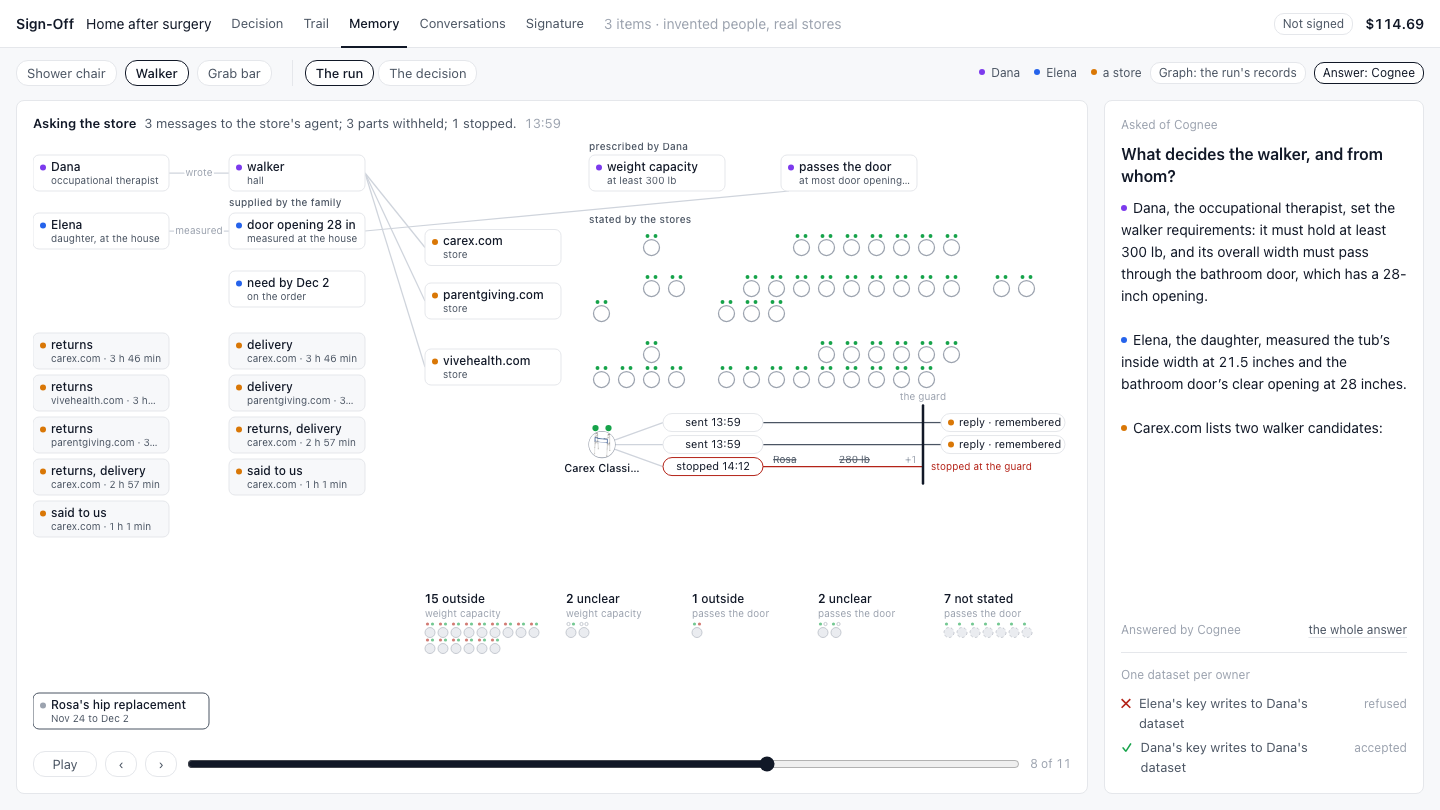
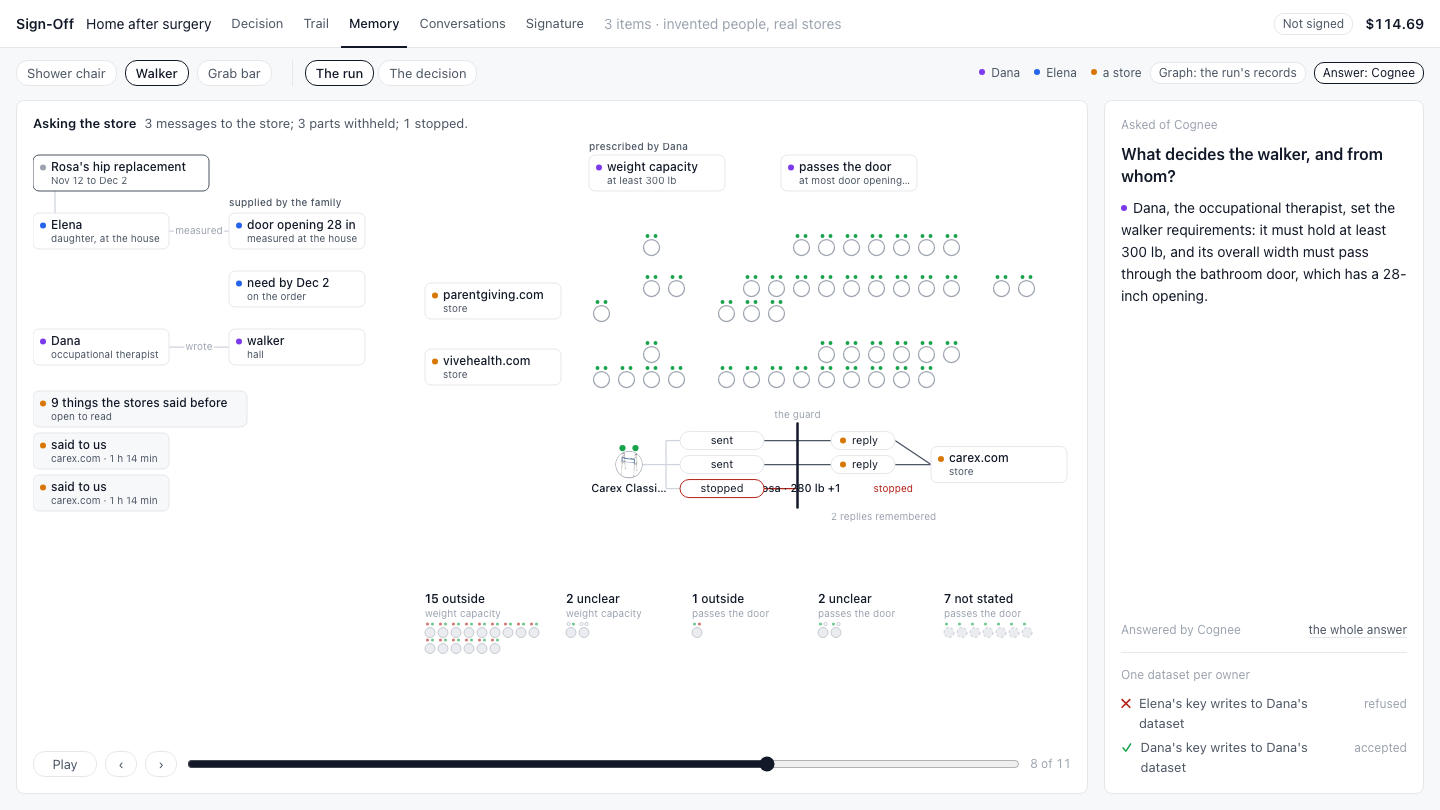
GRAPH: polish: the event as root, one node for what was recalled, survivors and gate at twice the size, the guard anchored between product and store, short captions

diff --git a/web/graph/explore.js b/web/graph/explore.js
@@ -10,7 +10,8 @@ const ownerClass = (o) => (o === "issuer" || o === "shopper" ? o : o === "system
 const short = (s, n) => (String(s || "").length > n ? String(s).slice(0, n - 1).trimEnd() + "…" : String(s || ""));
 const clock = (at) => (at ? String(at).slice(11, 16) : "");
 const FW = px(176);                                                // a fact quoted from a message is a wider card
-const boxW = (n) => (n.kind === "context_fact" || n.kind === "event" ? FW : CW);
+const GW = px(214);                                                // the one node that stands for everything recalled
+const boxW = (n) => (n.group ? GW : n.kind === "context_fact" || n.kind === "event" ? FW : CW);
 const REASONS = ["outside", "unclear", "not stated", "struck", "struck before"];
 
 let X = null;      // the mounted exploration: data, elements, current stage and positions
@@ -27,12 +28,14 @@ function plan(k) {
   const { data, W, H } = X, S = data.stages, at = (id) => S.findIndex((s) => s.id === id);
   const iEvent = at("event"), iOrder = at("order"), eventPhase = iEvent >= 0 && k <= iOrder;
   const iSearch = at("search"), iRead = at("reading"), iWeb = at("web"), iRank = at("ranking"), iSign = at("signature"), iAsk = at("asking");
+  const ranked = iRank >= 0 && k >= iRank, asking = iAsk >= 0 && k === iAsk;
   const nodes = new Map(data.nodes.map((n) => [n.id, n]));
   const added = new Map();                                        // node id -> the stage that adds it
   S.forEach((s, i) => s.node_ids_added.forEach((id) => added.set(id, i)));
   const asideAt = new Map();                                      // product id -> the stage that sets it aside
   S.forEach((s, i) => s.node_ids_set_aside.forEach((id) => asideAt.set(id, i)));
   const P = new Map(), lines = [], texts = [];
+  let leftBottom = 2 * (CH + px(22));
   const put = (id, x, y, more = {}) => P.set(id, { x, y, ...more, o: (added.get(id) ?? 0) <= k ? more.o ?? 1 : 0 });
   const GAP = px(60), XI = CW + GAP, XS = XI + CW + GAP, PX0 = XS + CW + px(28), YROW = H * 0.56, YB = H * 0.77;
 
@@ -71,20 +74,28 @@ function plan(k) {
     const idle = known.find((n) => !n.used);
     if (idle && k >= iOrder) texts.push({ x: XS + FW + px(10), y: fy.get(idle.id) + CH / 2 + px(3), cls: "gs", html: "held · not used for this order" });
   } else {
-    people.forEach((n, i) => put(n.id, 0, i * (CH + px(22))));
-    put(item.id, XI, 0);
-    facts.forEach((n, i) => put(n.id, XI, (i + 1) * (CH + px(22))));
-    values.forEach((n, i) => put(n.id, XI, (i + 1 + facts.length) * (CH + px(22))));
+    // the event is the root, top-left; what the family supplied grows under it; then the author's order
+    const ROW = CH + px(22), supplied = [...facts, ...values];
+    const issuer = people.find((n) => n.id === "person:issuer"), shopper = people.find((n) => n.id === "person:shopper");
+    const yS = nodes.has("event") ? ROW : 0, yD = yS + Math.max(1, supplied.length) * ROW;
+    if (nodes.has("event")) { put("event", 0, 0); if (shopper) lines.push({ raw: [px(22), CH, px(22), yS], cls: "" }); }
+    if (shopper) put(shopper.id, 0, yS);
+    supplied.forEach((n, i) => put(n.id, XI, yS + i * ROW));
+    if (issuer) put(issuer.id, 0, yD);
+    put(item.id, XI, yD);
+    leftBottom = yD + ROW;
+    if (data.sources?.supplied && supplied.length) texts.push({ x: XI, y: yS - px(7), cls: "src", html: esc(data.sources.supplied) });
     // the rules, above the products
     limits.forEach((n, i) => put(n.id, PX0 + i * (CW + px(56)), 0));
-    // the event stays as one node; its people, messages and facts fold back into it
-    if (nodes.has("event")) put("event", 0, H - CH - px(2));
-    [...around, ...notes, ...known].forEach((n) => put(n.id, 0, H - CH - px(2), { o: 0, w: boxW(n) }));
+    // the event's people, messages and facts fold back into it
+    [...around, ...notes, ...known].forEach((n) => put(n.id, 0, 0, { o: 0, w: boxW(n) }));
   }
-  // what it already knows: small cards under the order, each with its owner's mark and its age
-  const memTop = Math.max(2, 1 + facts.length + values.length) * (CH + px(22)) + px(4);
-  data.nodes.filter((n) => n.kind === "memory").forEach((n, i) =>
-    put(n.id, (i % 2) * XI, memTop + Math.floor(i / 2) * (CH + px(6))));
+  // what it already knows: one node for all of it, and on their own only the few that bear on this item's pick
+  const memories = data.nodes.filter((n) => n.kind === "memory");
+  const own = memories.filter((n) => n.own), all = memories.find((n) => n.group);
+  if (all) put(all.id, 0, leftBottom + px(4), { w: GW });
+  own.forEach((n, i) => put(n.id, 0, leftBottom + px(4) + (i + (all ? 1 : 0)) * (CH + px(6))));
+  memories.filter((n) => !n.own && !n.group).forEach((n) => put(n.id, 0, leftBottom + px(4), { o: 0 }));
 
   // the stores and the products found at each
   const stores = data.nodes.filter((n) => n.kind === "store");
@@ -110,10 +121,17 @@ function plan(k) {
     groups.get(key).ids.push(p.id);
   }
   const ordered = [...groups.values()].sort((a, b) => a.stage - b.stage || REASONS.indexOf(a.reason) - REASONS.indexOf(b.reason));
-  const gcols = 9, gsp = px(13);
-  let gx = XS;
+  const gcols = 9, gsp = px(13), RQ = px(2.5);
+  let gx = ranked ? 0 : XS;
   const asidePos = new Map();
   for (const g of ordered) {
+    if (ranked) {                                                   // one quiet row: a count, a reason, its dots
+      const label = `${g.ids.length} ${g.reason}`, lw = label.length * px(5.4) + px(8);
+      texts.push({ x: gx, y: H - px(4), cls: "gs", html: esc(label) });
+      g.ids.forEach((id, i) => asidePos.set(id, { x: gx + lw + i * px(7), y: H - px(7), quiet: true }));
+      gx += lw + g.ids.length * px(7) + px(18);
+      continue;
+    }
     const w = Math.max(px(112), Math.min(gcols, g.ids.length) * gsp + px(10));
     texts.push({ x: gx, y: YB + px(4), cls: "gh", html: `<tspan class="gc">${g.ids.length}</tspan> ${esc(g.reason)}` });
     texts.push({ x: gx, y: YB + px(18), cls: "gs", html: esc(S[g.stage].rule || S[g.stage].title) });
@@ -126,69 +144,76 @@ function plan(k) {
   const reviews = data.nodes.filter((n) => n.kind === "review");
   const searched = reviews.map((r) => r.product);
   const order = iRank >= 0 ? S[iRank].order : [];
-  const ranked = iRank >= 0 && k >= iRank;
-  const xr = W - CW - px(40);                                       // the head of the line, next to the gate
   const webbed = iWeb >= 0 && k >= iWeb;
-  const TOP = 5, BIGSTEP = px(84);
+  const TOP = 5, BIGSTEP = px(84), RBIG = px(26), GS = 1.3, CY = H * 0.46;
+  const gateX = W - CW * GS - px(2), leftEdge = XI + CW + px(64);
   const big = new Set(ranked ? order.slice(0, TOP) : webbed ? searched : []);
   const linePos = new Map();
   if (ranked) {
-    const tail = order.slice(TOP), trows = 3, tsp = px(10), tcols = Math.ceil(tail.length / trows);
-    const tx = xr - RB - (TOP - 1) * BIGSTEP - px(52) - (tcols - 1) * tsp;
-    order.slice(0, TOP).forEach((id, i) => linePos.set(id, { x: xr - RB - i * BIGSTEP, y: YROW }));
-    // behind them, in order: nearest column is next in rank
-    tail.forEach((id, i) => linePos.set(id, { x: tx + (tcols - 1 - Math.floor(i / trows)) * tsp, y: YROW - tsp + (i % trows) * tsp }));
-    if (tail.length) texts.push({ x: tx + ((tcols - 1) * tsp) / 2, y: YROW + px(30), cls: "gs mid", html: `${tail.length} more that pass` });
+    const head = gateX - px(44) - RBIG, n = Math.min(TOP, order.length);
+    const step = n > 1 ? Math.min(px(170), (head - leftEdge - RBIG) / (n - 1)) : 0;
+    order.slice(0, TOP).forEach((id, i) => linePos.set(id, { x: head - i * step, y: CY }));
+    // the rest that pass, in order, in a quiet block under them
+    const tail = order.slice(TOP), trows = 2, tsp = px(10), ty = CY + RBIG + px(96);
+    tail.forEach((id, i) => linePos.set(id, { x: leftEdge + Math.floor(i / trows) * tsp, y: ty + (i % trows) * tsp }));
+    if (tail.length) texts.push({ x: leftEdge + Math.ceil(tail.length / trows) * tsp + px(8), y: ty + px(8), cls: "gs", html: `${tail.length} more that pass` });
   } else if (webbed) {
     const step = Math.min(px(120), Math.max(BIGSTEP, (W - PX0) / Math.max(1, searched.length)));
     searched.forEach((id, i) => linePos.set(id, { x: PX0 + step / 2 + i * step, y: YROW }));
   }
 
-  const asking = iAsk >= 0 && k === iAsk;
   if (asking) {
-    const MW = px(100), RW = px(124), LANE = px(22), xm = PX0 + px(74), xc = xm + MW + px(10);
-    const xg = Math.min(W - RW - px(20), xc + px(196));
-    let ly = YROW - px(64);
+    const LANE = px(24), MW = px(84), RW = px(64), xp = PX0 + px(40), spine = xp + RB + px(24), xm = spine + px(14);
+    const storeX = W - CW, xr2 = storeX - RW - px(36), xg = (xm + MW + xr2) / 2;
+    let ly = YROW - px(46), kept = 0;
     const top = ly;
     for (const pid of S[iAsk].row || []) {
       const mine = data.nodes.filter((n) => n.kind === "message" && n.product === pid);
-      linePos.set(pid, { x: PX0 + RB, y: ly + ((mine.length - 1) * LANE) / 2 + px(9) });
+      const cy = ly + ((mine.length - 1) * LANE) / 2 + px(9), store = mine[0]?.store;
+      linePos.set(pid, { x: xp, y: cy });
       big.add(pid);
+      if (P.has(store)) P.set(store, { ...P.get(store), x: storeX, y: cy - CH / 2 });      // the store these messages go to
+      lines.push({ raw: [xp + RB, cy, spine, cy], cls: "" }, { raw: [spine, ly + px(9), spine, ly + (mine.length - 1) * LANE + px(9)], cls: "" });
       for (const m of mine) {
+        const y9 = ly + px(9), chips = m.removed || [];
         P.set(m.id, { x: xm, y: ly, o: 1, w: MW, h: px(18) });
-        lines.push({ a: pid, b: m.id, cls: "" });
-        lines.push({ raw: [xm + MW, ly + px(9), xg, ly + px(9)], cls: m.stopped ? "fails" : "lit" });
-        let cx = xc;
-        (m.removed || []).slice(0, 2).forEach((c) => { texts.push({ x: cx, y: ly + px(5.5), cls: "chip", html: esc(short(c.text, 11)) }); cx += px(66); });
-        if ((m.removed || []).length > 2) texts.push({ x: cx, y: ly + px(5.5), cls: "gs", html: `+${m.removed.length - 2}` });
-        if (m.stopped) texts.push({ x: xg + px(8), y: ly + px(12.5), cls: "stop", html: "stopped at the guard" });
+        lines.push({ raw: [spine, y9, xm, y9], cls: "" }, { raw: [xm + MW, y9, xg, y9], cls: m.stopped ? "fails" : "lit" });
+        // what the guard withheld sits on the guard line, struck
+        if (chips.length) texts.push({ x: xg, y: y9 + px(3.5), cls: "chip on mid", html: chips.slice(0, 2).map((c) => esc(short(c.text, 10))).join(" · ") + (chips.length > 2 ? ` +${chips.length - 2}` : "") });
         const r = data.nodes.find((n) => n.kind === "reply" && n.message === m.id);
-        if (r) { P.set(r.id, { x: xg + px(18), y: ly, o: 1, w: RW, h: px(18) }); lines.push({ raw: [xg, ly + px(9), xg + px(18), ly + px(9)], cls: "lit" }); }
+        if (r) {
+          P.set(r.id, { x: xr2, y: ly, o: 1, w: RW, h: px(18) });
+          kept += r.remembered ? 1 : 0;
+          lines.push({ raw: [xg, y9, xr2, y9], cls: "lit" }, { raw: [xr2 + RW, y9, storeX, cy], cls: "lit" });
+        } else if (m.stopped) texts.push({ x: xg + px(76), y: y9 + px(3.5), cls: "stop", html: "stopped" });
+        else lines.push({ raw: [xg, y9, storeX, cy], cls: "lit" });
         ly += LANE;
       }
-      ly += px(10);
+      ly += px(12);
     }
-    lines.push({ raw: [xg, top - px(8), xg, ly - px(6)], cls: "guard" });
+    lines.push({ raw: [xg, top - px(8), xg, ly - px(8)], cls: "guard" });
     texts.push({ x: xg, y: top - px(14), cls: "gs mid", html: "the guard" });
+    if (kept) texts.push({ x: xr2, y: ly + px(4), cls: "gs", html: `${kept} ${kept === 1 ? "reply" : "replies"} remembered` });
   }
-  data.nodes.filter((n) => (n.kind === "message" || n.kind === "reply") && !P.has(n.id)).forEach((n) => P.set(n.id, { x: PX0, y: YROW, o: 0, w: px(100), h: px(18) }));
+  data.nodes.filter((n) => (n.kind === "message" || n.kind === "reply") && !P.has(n.id)).forEach((n) => P.set(n.id, { x: PX0, y: YROW, o: 0, w: px(84), h: px(18) }));
+  if (ranked) stores.forEach((n) => { P.get(n.id).o = 0; });          // the stores have done their part
 
   for (const p of products) {
     const h = home.get(p.id), born = k >= iSearch, gone = asidePos.get(p.id), line = linePos.get(p.id);
     const src = P.get(h.store);
     const where = !born ? { x: src.x + CW / 2, y: src.y + CH / 2 } : gone || line || h;
-    P.set(p.id, { ...where, o: born ? (gone ? 0.75 : 1) : 0, r: gone ? RS : big.has(p.id) ? RB : ranked ? px(3.6) : R,
+    P.set(p.id, { ...where, o: born ? (gone ? 0.75 : 1) : 0, r: gone ? (gone.quiet ? RQ : RS) : big.has(p.id) ? (ranked ? RBIG : RB) : ranked ? px(3.6) : R,
       big: big.has(p.id) && !gone, aside: !!gone, dashed: k >= iRead && (S[iRead]?.not_stated || []).includes(p.id),
       read: k >= iRead, pick: ranked && p.picked, checked: limits.filter((l) => { const i = S.findIndex((x) => x.limit === l.id); return i >= 0 && i <= k; }).map((l) => l.id) });
   }
   if (web) put(web.id, XS, YROW - CH / 2, ranked ? { o: 0 } : {});
   reviews.forEach((r) => {
     const p = P.get(r.product);
-    P.set(r.id, { x: p.x - px(36), y: p.y + RB + px(22), o: (added.get(r.id) ?? 99) <= k && p.big ? 1 : 0, pill: true });
+    P.set(r.id, { x: p.x - px(36), y: p.y + p.r + px(ranked ? 12 : 9), o: (added.get(r.id) ?? 99) <= k && p.big && !asking ? 1 : 0, pill: true });
   });
   // the gate, and the cart beyond it
-  if (nodes.has("gate")) put("gate", W - CW, YROW - CH / 2, { gate: true });
-  data.nodes.filter((n) => n.kind === "cart").forEach((n, i) => put(n.id, W - CW, YROW + CH + px(14) + i * (CH + px(8))));
+  if (nodes.has("gate")) put("gate", gateX, CY - (CH * GS) / 2, { gate: true, s: GS, w: CW * GS, h: CH * GS });
+  data.nodes.filter((n) => n.kind === "cart").forEach((n, i) => put(n.id, gateX, CY + CH * GS + px(14) + i * (CH + px(8))));
 
   // the lines of this stage
   const vis = (id) => P.get(id)?.o > 0;
@@ -200,16 +225,14 @@ function plan(k) {
     else if (e.verb === "wrote" && nodes.get(e.to)?.kind === "context_message") { if (nodes.get(e.from)?.kind === "context_person") card(e.from, e.to, "", ""); }
     else if (e.prescribed) { if (eventPhase) card(e.from, e.to, "", ""); }
     else if (e.verb === "wrote" || e.verb === "measured") card(e.from, e.to, "", eventPhase ? "" : e.verb);
-    else if (e.verb === "searches" && nodes.get(e.to)?.kind === "store" && k >= iSearch && !ranked) card(e.from, e.to, k === iSearch ? "lit" : "", "");
-    else if (e.verb === "requires" && nodes.get(e.to)?.kind === "home_fact") { if (!eventPhase && vis(e.to) && vis(e.from)) lines.push({ a: e.to, b: e.from, cls: "", toCorner: true, card: true }); }
+    else if (e.verb === "searches" && nodes.get(e.to)?.kind === "store" && k >= iSearch && !ranked && !asking) card(e.from, e.to, k === iSearch ? "lit" : "", "");
     else if (e.verb === "waits for" && k >= iSign && iSign >= 0) lines.push({ a: e.from, b: e.to, cls: "lit", toCard: true });
     else if (e.verb === "releases") card(e.from, e.to, "lit", "");
     else if (e.verb === "searches" && e.from === "web:search" && k === iWeb) lines.push({ a: e.from, b: e.to, cls: "", fromCard: true });
   }
   if (!eventPhase && data.sources) {
     if (data.sources.prescribed && limits.length) texts.push({ x: P.get(limits[0].id).x, y: -px(5), cls: "src", html: esc(data.sources.prescribed) });
-    if (data.sources.supplied && facts.length + values.length) texts.push({ x: XI, y: CH + px(15), cls: "src", html: esc(data.sources.supplied) });
-    if (data.sources.stated && k >= iSearch && stores.length && !ranked) texts.push({ x: PX0, y: P.get(stores[0].id).y - px(7), cls: "src", html: esc(data.sources.stated) });
+    if (data.sources.stated && k >= iSearch && stores.length && !ranked && !asking) texts.push({ x: XS, y: P.get(stores[0].id).y - px(7), cls: "src", html: esc(data.sources.stated) });
   }
   const stage = S[k];
   if (k === iSearch && stores.length) {                             // the item's own queries, said once
@@ -227,8 +250,9 @@ function plan(k) {
   if (ranked) {
     order.slice(0, TOP).forEach((id) => {
       const n = nodes.get(id), p = P.get(id);
-      texts.push({ x: p.x, y: p.y - RB - px(20), cls: "pn mid", html: esc(short(n.label, 12)) });
-      texts.push({ x: p.x, y: p.y - RB - px(7), cls: "pp mid", html: esc((n.sub || "").split(" · ")[0]) + (n.picked ? " · the pick" : "") });
+      const room = order.length > 1 ? Math.abs(P.get(order[0]).x - P.get(order[1]).x) : px(170);
+      texts.push({ x: p.x, y: p.y - p.r - px(24), cls: "pn big mid", html: esc(short(n.label, Math.max(8, Math.min(18, Math.floor(room / px(8.2)))))) });
+      texts.push({ x: p.x, y: p.y - p.r - px(9), cls: "pp big mid", html: esc((n.sub || "").split(" · ")[0]) + (n.picked ? " · the pick" : "") });
     });
   } else if (webbed) {
     searched.forEach((id) => { const p = P.get(id); if (p.big) texts.push({ x: p.x, y: p.y - RB - px(7), cls: "pn mid", html: esc(short(nodes.get(id).label, 13)) }); });
@@ -245,8 +269,8 @@ function glyph(n) {
   }
   const dot = n.kind === "web" || n.kind === "review" ? "" : `<circle class="od ${ownerClass(n.owner)}" cx="${px(10)}" cy="${px(12.5)}" r="${px(3)}"/>`;
   const tx = dot ? px(18) : px(9);
-  if (n.kind === "message") return `<title>${esc(n.sub || "")}</title><rect class="b pill${n.stopped ? " stopped" : ""}" width="${px(100)}" height="${px(18)}" rx="${px(9)}"/><text class="l mid" x="${px(50)}" y="${px(12.5)}">${esc(n.label)} ${esc(clock(n.at))}</text>`;
-  if (n.kind === "reply") return `<title>${esc(n.sub || "")}</title><rect class="b pill" width="${px(124)}" height="${px(18)}" rx="${px(9)}"/><circle class="od store" cx="${px(10)}" cy="${px(9)}" r="${px(3)}"/><text class="l" x="${px(18)}" y="${px(12.5)}">${n.remembered ? "reply · remembered" : "reply"}</text>`;
+  if (n.kind === "message") return `<title>${esc(n.sub || "")}</title><rect class="b pill${n.stopped ? " stopped" : ""}" width="${px(84)}" height="${px(18)}" rx="${px(9)}"/><text class="l mid" x="${px(42)}" y="${px(12.5)}">${esc(n.label)}</text>`;
+  if (n.kind === "reply") return `<title>${esc(n.sub || "")}</title><rect class="b pill" width="${px(64)}" height="${px(18)}" rx="${px(9)}"/><circle class="od store" cx="${px(12)}" cy="${px(9)}" r="${px(3)}"/><text class="l" x="${px(21)}" y="${px(12.5)}">reply</text>`;
   if (n.kind === "review") return `<rect class="b pill" width="${px(72)}" height="${px(18)}" rx="${px(9)}"/><text class="l mid" x="${px(36)}" y="${px(12.5)}">${esc(short(n.label, 11))}</text><text class="s mid" x="${px(36)}" y="${px(30)}">${esc(short(n.sub, 14))}</text>`;
   const w = boxW(n), room = (w - tx - px(6)) / px(6.1);
   return `<title>${esc(n.label)}</title><rect class="b" width="${w}" height="${CH}" rx="${px(6)}"/>${dot}
@@ -274,7 +298,7 @@ function paint(P) {
     if (!p) { g.style.display = "none"; continue; }
     g.style.display = p.o <= 0.01 ? "none" : "";
     g.setAttribute("opacity", p.o);
-    g.setAttribute("transform", `translate(${p.x} ${p.y})`);
+    g.setAttribute("transform", `translate(${p.x} ${p.y})${p.s ? ` scale(${p.s})` : ""}`);
     if (p.r != null) {
       const [c, img, ring, q0, q1] = [g.querySelector(".c"), g.querySelector(".ph"), g.querySelector(".ring"), g.querySelector(".q0"), g.querySelector(".q1")];
       c.setAttribute("r", p.r); ring.setAttribute("r", p.r + px(3));
@@ -308,7 +332,7 @@ function dress(k, target) {
     if (n.kind === "context_fact") g.classList.toggle("lit", k === data.stages.findIndex((s) => s.id === "order") && !!n.feeds_here);
     if (n.kind !== "product") continue;
     g.classList.toggle("aside", p.aside); g.classList.toggle("dashed", p.dashed); g.classList.toggle("pick", !!p.pick);
-    g.classList.toggle("big", p.big); g.classList.toggle("read", p.read && p.r > px(3.8));
+    g.classList.toggle("big", p.big); g.classList.toggle("read", p.read && p.r > px(3.8) && p.r < px(20));
     const limits = data.nodes.filter((x) => x.kind === "limit");
     g.querySelectorAll(".q").forEach((q, i) => {
       const lim = limits[i], v = lim ? n.checks[lim.id.replace(/^limit:/, "")] : null;

diff --git a/web/graph/graph.js b/web/graph/graph.js
@@ -233,6 +233,7 @@ function sourceLine(s) {
   if (s.record === "store_page") return `<a class="link" href="${esc(s.url)}" target="_blank" rel="noopener">${esc(String(s.url).replace(/^https?:\/\/(www\.)?/, ""))}</a>${span} · read ${esc(clock(s.fetched_at))}`;
   if (s.record === "context") return `${s.from_label ? esc(s.from_label) + " · " + esc(s.channel || "") + " · " + esc(String(s.at || "").slice(0, 10)) + " " + esc(clock(s.at)) + " · " : ""}<code>${esc(s.file)}</code>${s.pointer ? " · <code>" + esc(s.pointer) + "</code>" : ""}${span}`;
   if (s.record === "talk") return `conversation <code>${esc(s.thread)}</code> · message ${esc(s.n)} · ${esc(clock(s.at))} · <a class="link" href="/talk/">conversations</a>`;
+  if (s.record === "memory_recall") return `${esc(s.rows)} rows · <code>${esc(s.route)}</code>`;
   if (s.record === "web_page") return `<a class="link" href="${esc(s.url)}" target="_blank" rel="noopener">${esc(String(s.url).replace(/^https?:\/\/(www\.)?/, "").slice(0, 60))}</a> · read ${esc(clock(s.fetched_at))}`;
   if (s.record === "ledger") return `outbound ledger · rows ${esc((s.rows || []).join(", "))} · <a class="link" href="/trail/">trail</a>`;
   if (s.record === "memory") return `memory <code>${esc(s.memory_id)}</code> · ${s.hash ? "receipt <code>" + esc(String(s.hash).slice(0, 12)) + "</code>" : "<code>" + esc(s.file || "") + "</code>"} · ${esc(clock(s.at))}`;

diff --git a/web/graph/graph.css b/web/graph/graph.css
@@ -132,3 +132,7 @@ body.embed .heads { height: 2rem; }
 body.embed .heads .st { font-size: 1.25rem; line-height: 1.75rem; gap: 0.625rem; color: var(--t1); }
 body.embed .heads .st b { color: var(--t3); font-weight: 400; }
 body.embed .ctl .grow { flex: 1; }
+svg.xp .chip.on { text-decoration: none; font-size: 0.6875rem; font-weight: 500; fill: var(--t1); }  /* the lane's own line strikes it */
+svg.xp .pn.big { font-size: 0.8125rem; font-weight: 600; }
+svg.xp .pp.big { font-size: 0.75rem; }
+svg.xp .k-memory .l { font-size: 0.75rem; }

diff --git a/signoff/graph/explore.py b/signoff/graph/explore.py
@@ -150,6 +150,19 @@ def explore(records: dict, line_id: str, reviews: dict | None = None, recall: di
         if key.startswith("talk:"):
             memory_of_talk[tuple(key.split(":")[-2:])] = mid
 
+    pick_id = next((p["id"] for p in products if p.get("picked")), None)
+    rows = [extra[i] for i in known]
+    about_pick = sorted((m for m in rows if m["about"] == pick_id), key=lambda m: str(m.get("at") or ""), reverse=True)[:2]
+    for m in rows:
+        m["own"] = m["about"].startswith("fact:") or m["label"] in ("struck before", "bought before") or m in about_pick
+    if rows:
+        only_stores = all(m["owner"] not in ("issuer", "shopper") for m in rows)
+        extra["memory:all"] = {"id": "memory:all", "kind": "memory", "group": True, "own": False, "owner": "the stores" if only_stores else "system",
+                               "label": "%d things the stores said before" % len(rows) if only_stores else "%d things remembered" % len(rows),
+                               "sub": "open to read", "text": "\n\n".join(str(m.get("text") or "") for m in rows), "about": item,
+                               "source": {"record": "memory_recall", "route": "/api/memory/recall?line_id=%s" % line_id, "rows": len(rows)}}
+        known.insert(0, "memory:all")
+
     # asking the store's agent: every message about one of this item's products, what the guard withheld, the reply
     asked, said = [], []
     for m in (talk or {}).get("messages") or []:
@@ -325,12 +338,12 @@ def explore(records: dict, line_id: str, reviews: dict | None = None, recall: di
     ]
     if event_ids:
         stages.insert(0, {"id": "event", "title": "What is known", "at": min((extra[i].get("at") or "" for i in event_ids if extra[i].get("at")), default=None),
-                          "caption": "%s held from %s; %d shape this order." % (_plural(fed + held_only, "fact"), _plural(len(context["messages"]), "message"), fed),
+                          "caption": "%s from %s; %d shape this order." % (_plural(fed + held_only, "fact"), _plural(len(context["messages"]), "message"), fed),
                           "node_ids_added": [i for i in event_ids if not i.startswith("sheet:")], "node_ids_set_aside": [], "reason_counts": {},
                           "dropped": context.get("dropped") or [], "refused_feeds": refused_feeds})
     if known:
         stages.insert(2 if event_ids else 1, {"id": "known", "title": "What it already knows", "at": None,
-                          "caption": "%s recalled, of %s held." % (_plural(len(known), "memory", "memories"), (recall.get("counts") or {}).get("of", len(known))),
+                          "caption": "%s recalled, of %s held." % (_plural(len(rows), "memory", "memories"), (recall.get("counts") or {}).get("of", len(rows))),
                           "node_ids_added": known, "node_ids_set_aside": [], "reason_counts": {}})
     left = len(products)
     for l in limits:
@@ -340,13 +353,13 @@ def explore(records: dict, line_id: str, reviews: dict | None = None, recall: di
             counts[aside[pid]["reason"]] = counts.get(aside[pid]["reason"], 0) + 1
         left -= len(out)
         stages.append({"id": "rule:" + l["id"], "title": "The rules", "at": None, "limit": l["id"], "rule": l["label"],
-                       "caption": "%s: %d set aside, %d left." % (str(l.get("sub") or l["label"]).capitalize(), len(out), left),
+                       "caption": "%s: %d set aside, %d left." % (str(l["sub"] if l.get("sub") and len(str(l["sub"]).split()) <= 4 else l["label"]).capitalize(), len(out), left),
                        "node_ids_added": [], "node_ids_set_aside": out, "reason_counts": counts})
     if asked:
         withheld = sum(len(extra[i]["removed"]) for i in asked)
         stopped = sum(1 for i in asked if extra[i]["stopped"])
         stages.append({"id": "asking", "title": "Asking the store", "at": min((extra[i].get("at") or "" for i in asked), default=None) or None,
-                       "caption": "%s to the store's agent; %s withheld; %d stopped." % (_plural(len(asked), "message"), _plural(withheld, "part"), stopped),
+                       "caption": "%s to the store; %s withheld; %d stopped." % (_plural(len(asked), "message"), _plural(withheld, "part"), stopped),
                        "node_ids_added": asked + said, "node_ids_set_aside": [], "reason_counts": {},
                        "row": sorted({extra[i]["product"] for i in asked})})
     if web_added:
@@ -370,6 +383,6 @@ def explore(records: dict, line_id: str, reviews: dict | None = None, recall: di
             "totals": {"products": len(products), "passing": len(passing), "set_aside": len(aside),
                        "pages": len({(cands[p["id"]].get("product") or {}).get("product_id") for p in products})},
             "sources": sources, "run": run, "reviews_available": reviews is not None, "recall_available": recall is not None, "talk_available": talk is not None,
-            "counts": {"memory": len(known), "message": len(asked), "reply": len(said),
+            "counts": {"memory": len(rows), "message": len(asked), "reply": len(said),
                        "context_fact": fed + held_only, "context_fact_used": fed, "context_message": len((context or {}).get("messages") or [])},
             "context_available": context is not None}
